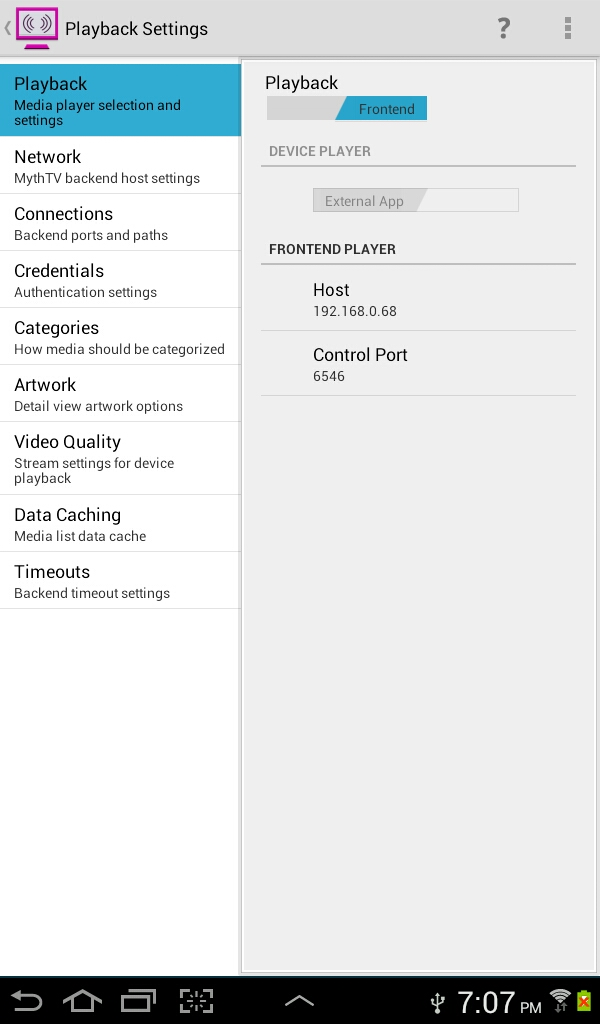
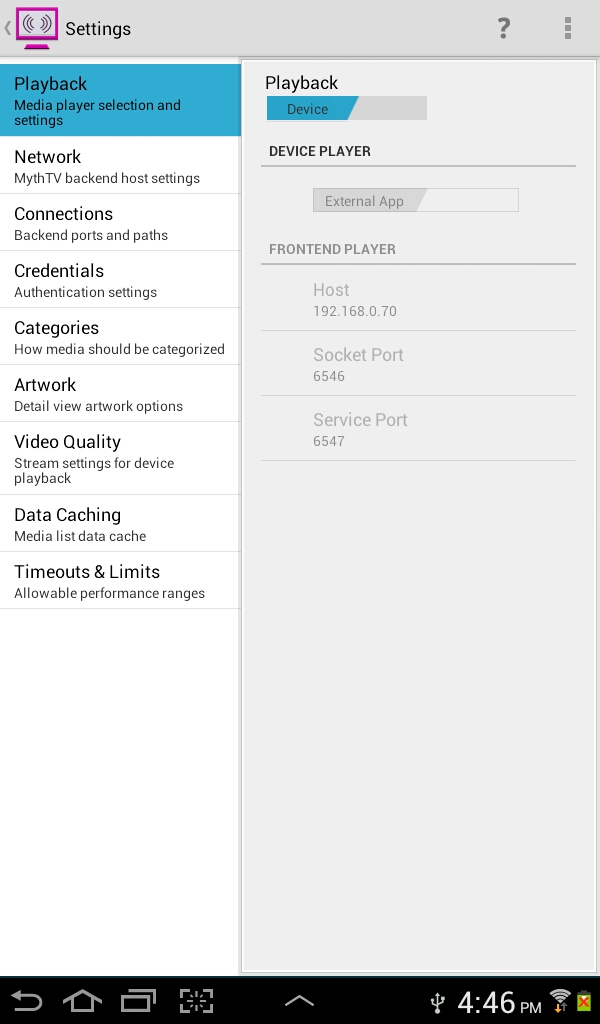
docs

diff --git a/help.html b/help.html
@@ -53,8 +53,9 @@
           <div class="help_text">
             <p>1. <span class="help_step">Playback Settings</span></p>
             <p>If you choose to play media on your Device, then no further configuration is required in Playback Settings.</p>
-            <p>For playback on a MythTV frontend, Mythling uses the <a href="http://www.mythtv.org/wiki/Frontend_control_socket">Frontend Control Socket</a> interface,
-            so for that you'll need to specify the mythfrontend host name or IP address along with the control port.
+            <p>For playback on a MythTV frontend, Mythling uses either the <a href="http://www.mythtv.org/wiki/Frontend_Service">MythTV Frontend Service</a> 
+            or the <a href="http://www.mythtv.org/wiki/Frontend_control_socket">Frontend Control Socket</a> interface (depending on the selected media type).
+            So for frontend playback you'll need to specify the mythfrontend host name or IP address, along with the service port and socket control port.
             These settings are remembered so you can readily switch back and forth between frontend and device playback.
           </div>
         </div>
